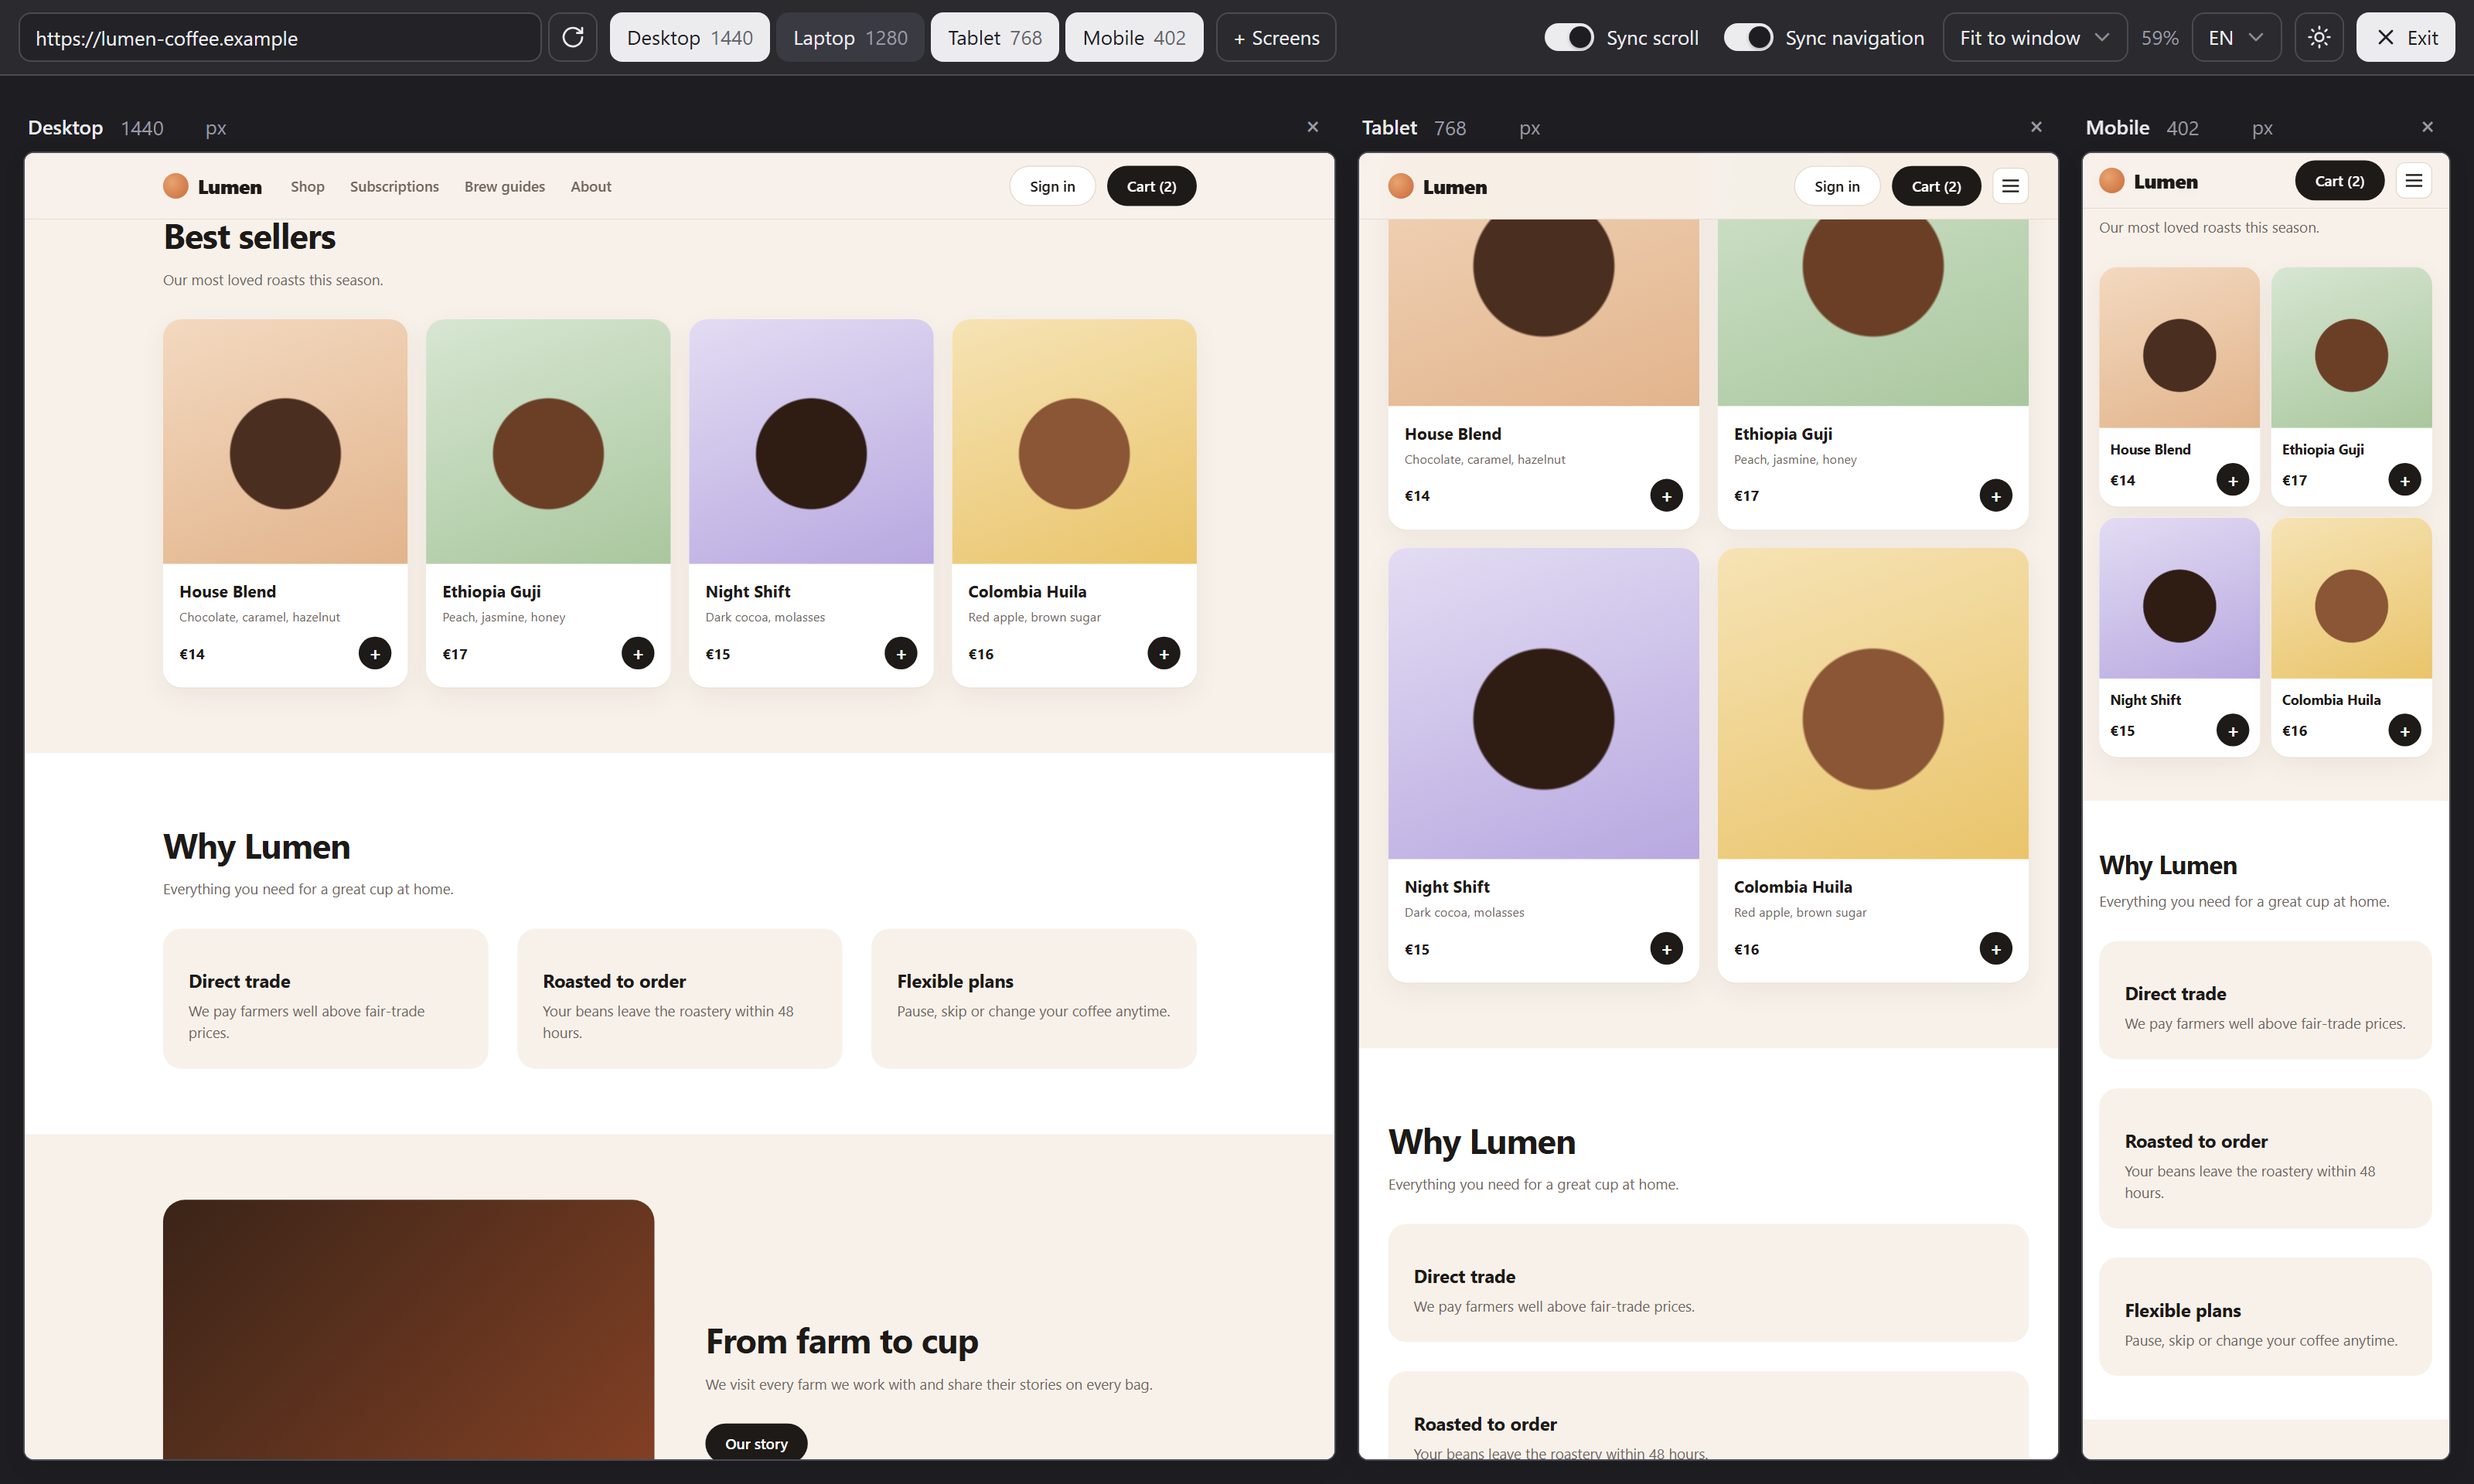
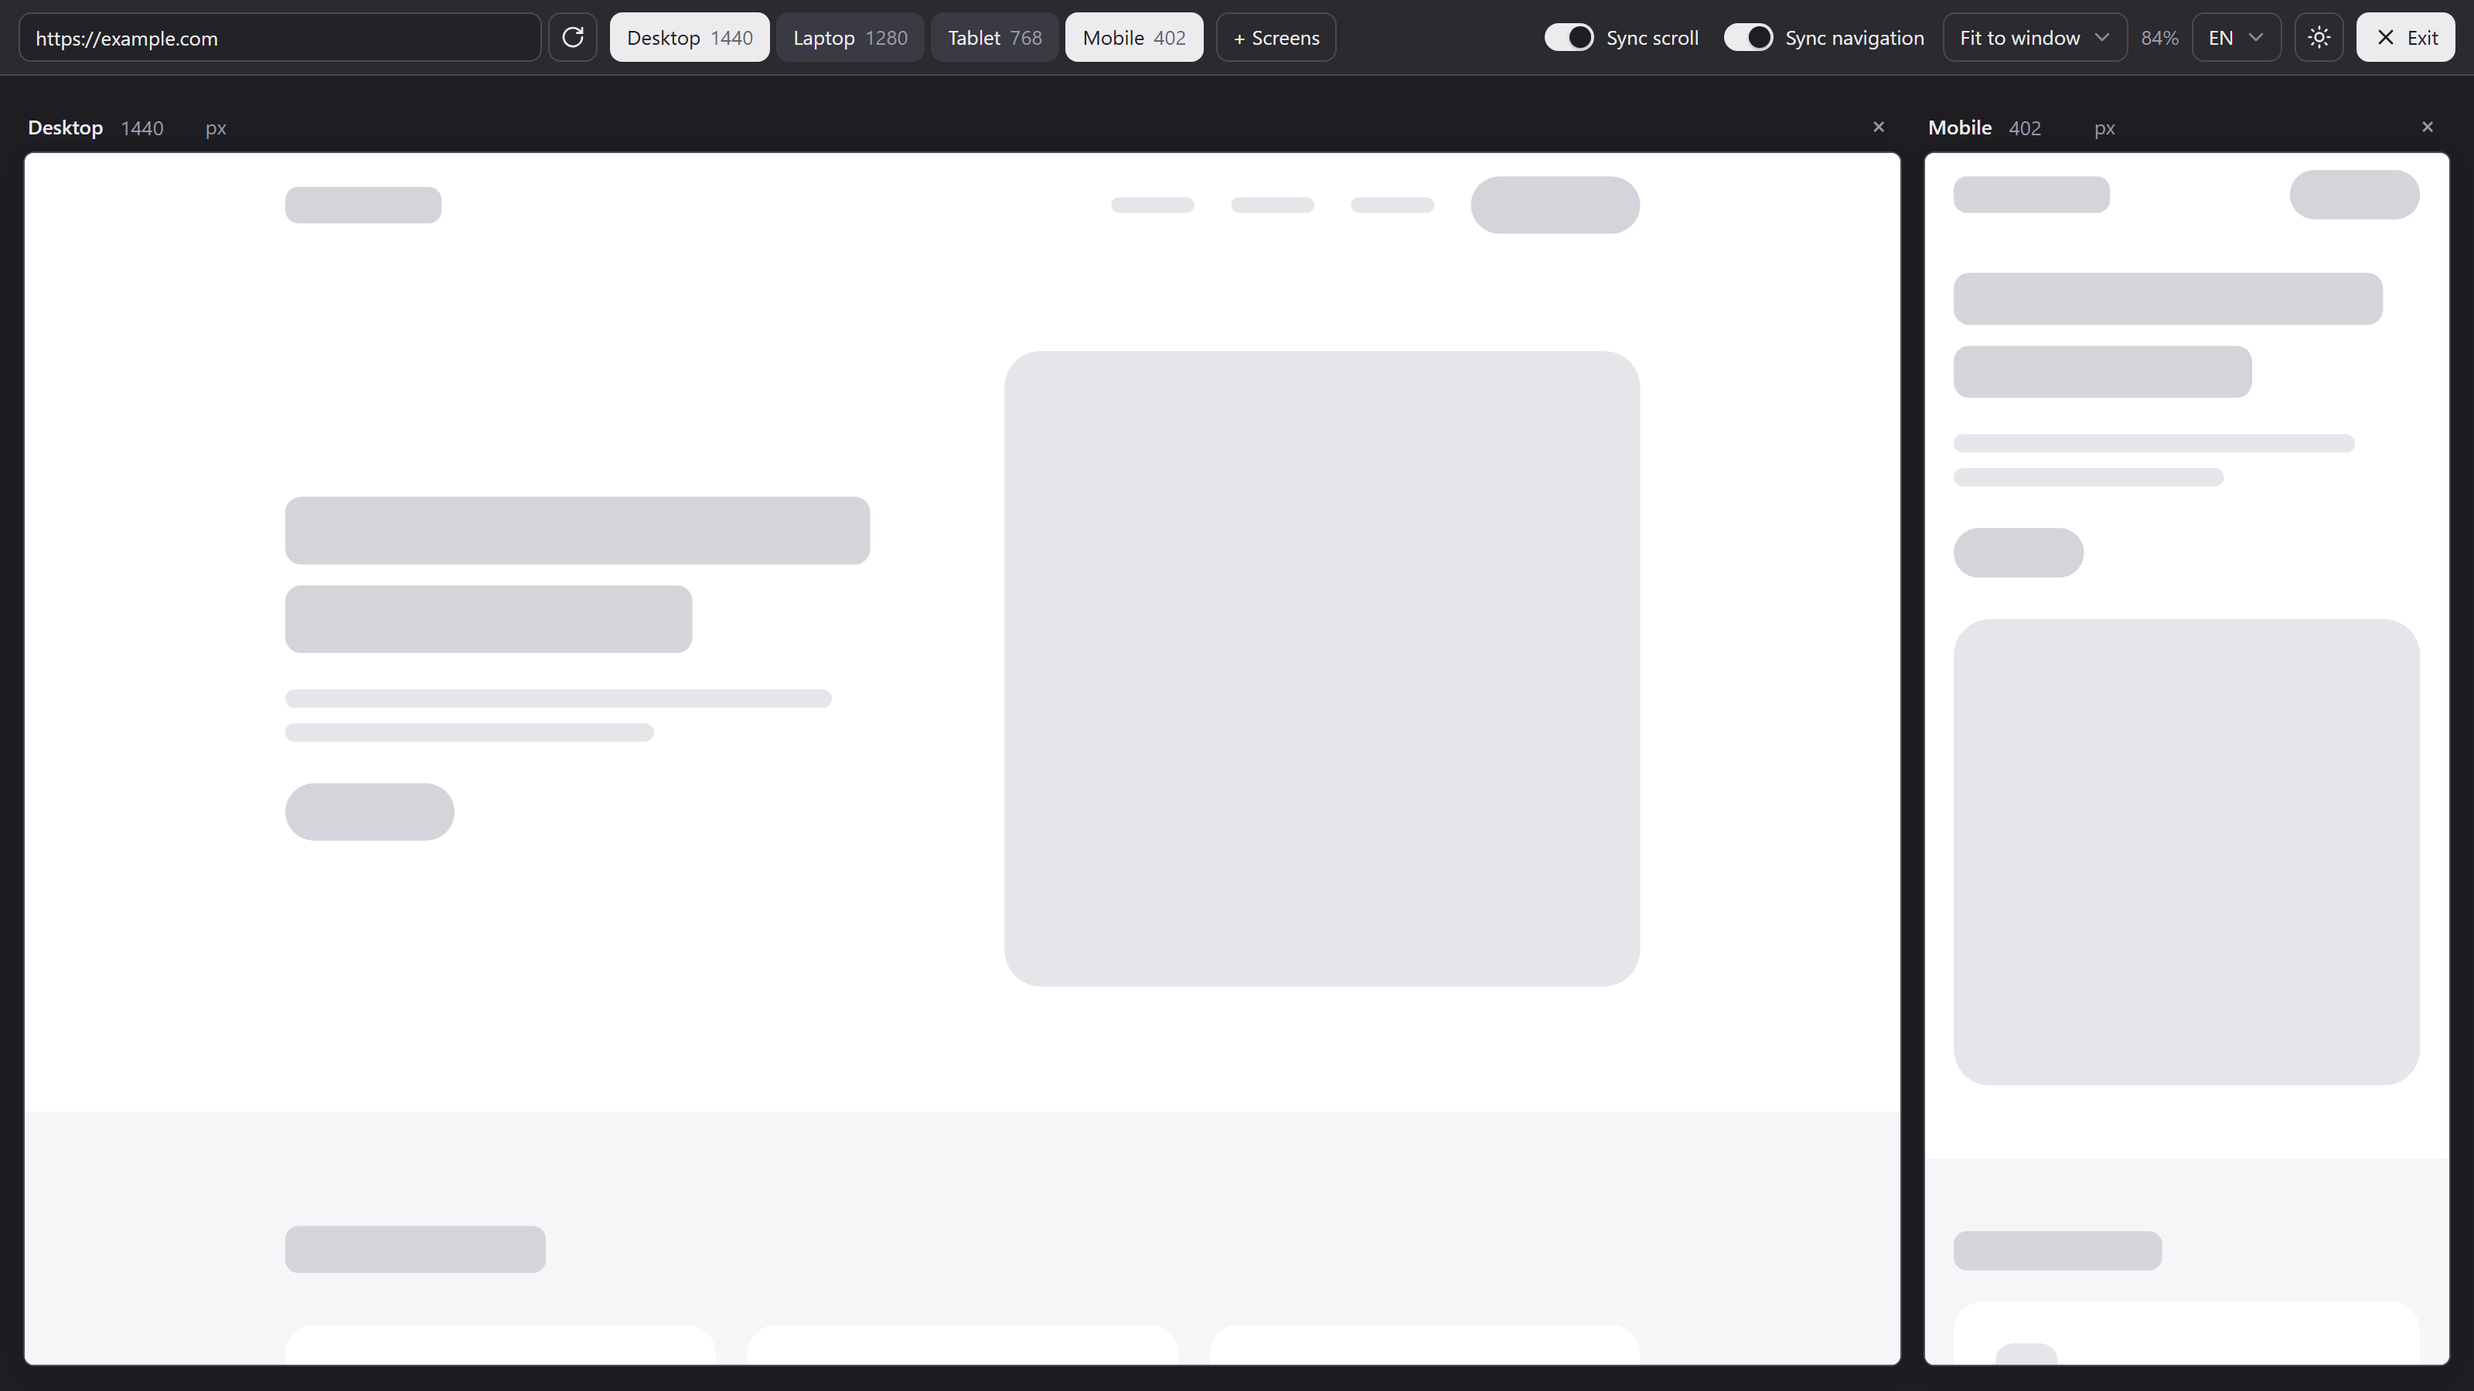
Simpler screenshots, update README presets

diff --git a/README.md b/README.md
@@ -4,7 +4,7 @@ Chrome extension to preview any website at multiple screen sizes side by side (d
 
 ![Viewport Sync icon](icons/icon128.png)
 
-![Desktop, tablet and mobile side by side, scrolled to the same section](screenshots/overview.png)
+![Desktop and mobile side by side](screenshots/overview.png)
 
 <table>
   <tr>
@@ -17,12 +17,12 @@ Chrome extension to preview any website at multiple screen sizes side by side (d
   </tr>
 </table>
 
-<sub>Screenshots use a fictional demo site.</sub>
+<sub>Screenshots use a placeholder demo page.</sub>
 
 ## Features
 
 - **Side-by-side screens** — Desktop (1440) and Mobile (402) by default, plus Laptop and Tablet ready to turn on.
-- **Custom screens** — add presets (iPhone SE, iPhone 16 Pro, iPad, Full HD…) or your own; rename, change type, width and height, or delete.
+- **Custom screens** — add presets (iPhone 17, iPhone Air, Galaxy S25, Pixel 10, iPad, MacBook, Full HD…) or your own; rename, change type, width and height, reset or delete.
 - **Resize with the mouse** — drag the right edge (width), bottom edge (height) or corner (both). Double-click the bottom edge to go back to auto height.
 - **Synced scrolling** — scroll one screen and the others follow to the same section, even when desktop and mobile layouts have different heights.
 - **Synced navigation** — click a link in one screen and the others open the same page.
